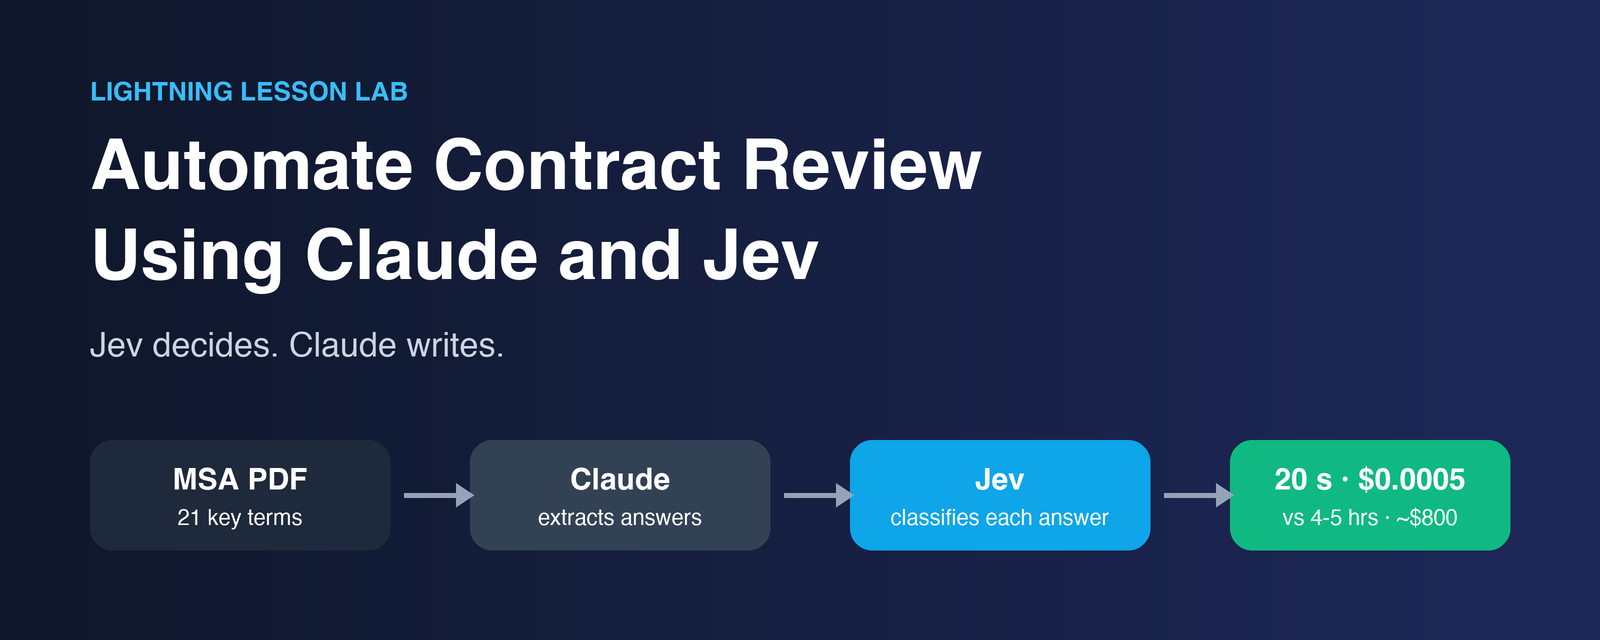
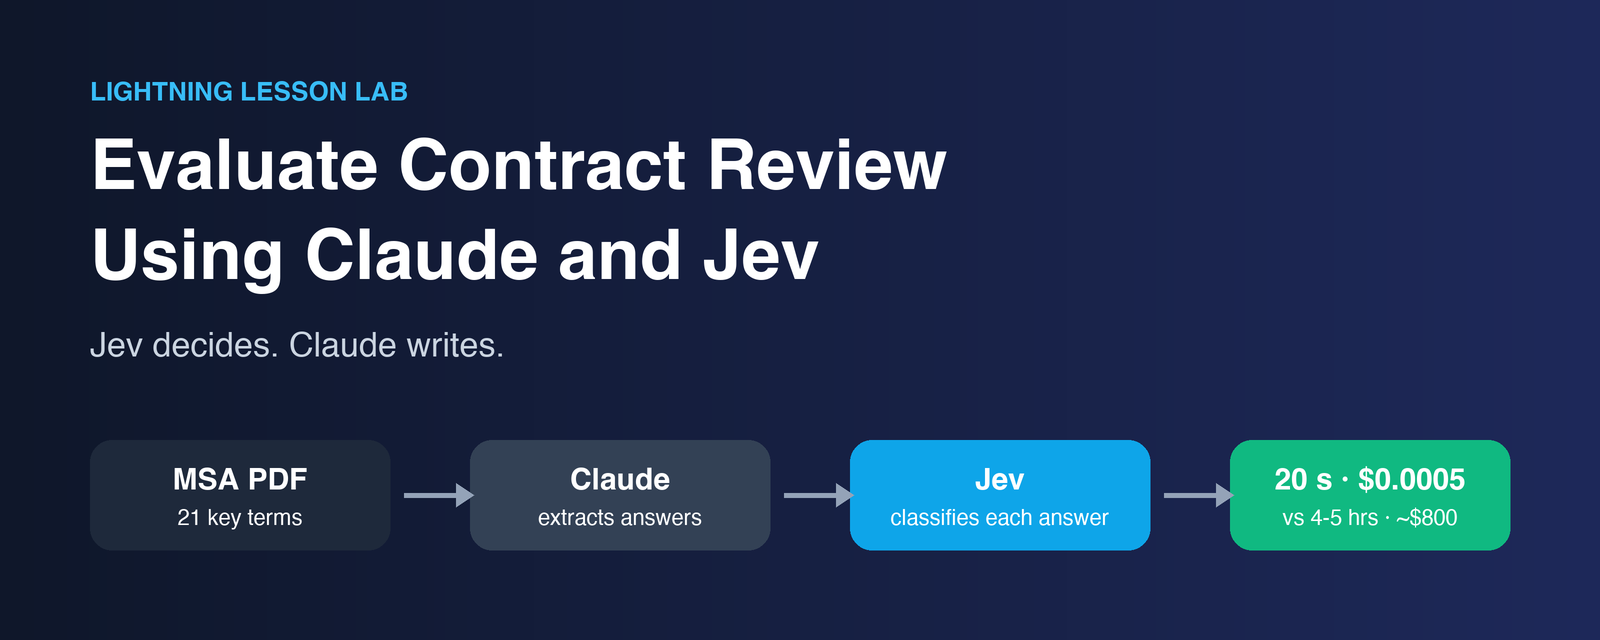
automate to Evaluate

Changed region(s): [[0.0625, 0.2188, 0.625, 0.3125]]

diff --git a/Class-Labs/Lightning Lessons Labs/jev-lab/Readme.md b/Class-Labs/Lightning Lessons Labs/jev-lab/Readme.md
@@ -1,8 +1,8 @@
-# Automate Contract Review Using Claude and Jev
+# Evaluate Contract Review Using Claude and Jev
 
 ![image](./assets/1.png)
 
-Reviewing a Master Services Agreement (MSA) by hand means a person reads every clause and writes down the key terms. For one contract, that costs around **$800** and takes **4 to 5 hours**. In this lab you'll automate the review, check the answers against a human-made ground truth, and see how **Jev** makes the checking step faster and cheaper.
+Reviewing a Master Services Agreement (MSA) by hand means a person reads every clause and writes down the key terms. For one contract, that costs around **$800** and takes **4 to 5 hours**. In this lab you'll evaluate the review, check the answers against a human-made ground truth, and see how **Jev** makes the checking step faster and cheaper.
 
 **Jev** is an AI model from [Typesafe](https://docs.typesafe.ai/agent-skill) built for decisions, not writing: give it text and a question, and it instantly picks an option, scores it, or says how likely it is, at a fraction of the cost. **Jev decides, Claude writes.**
 
